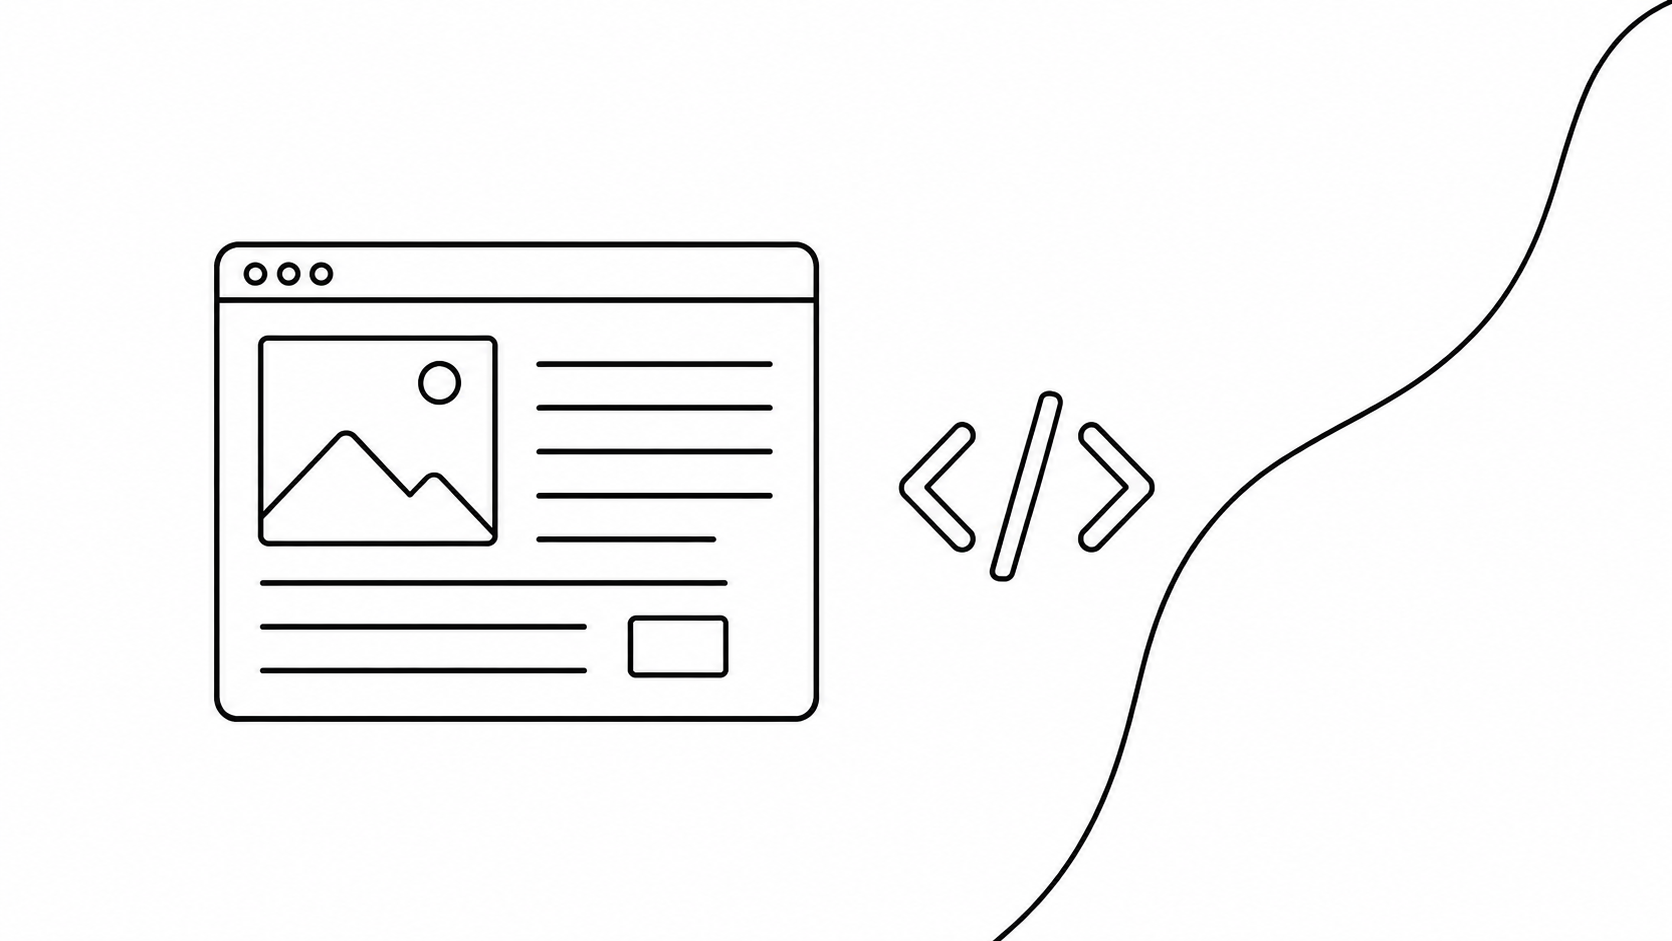
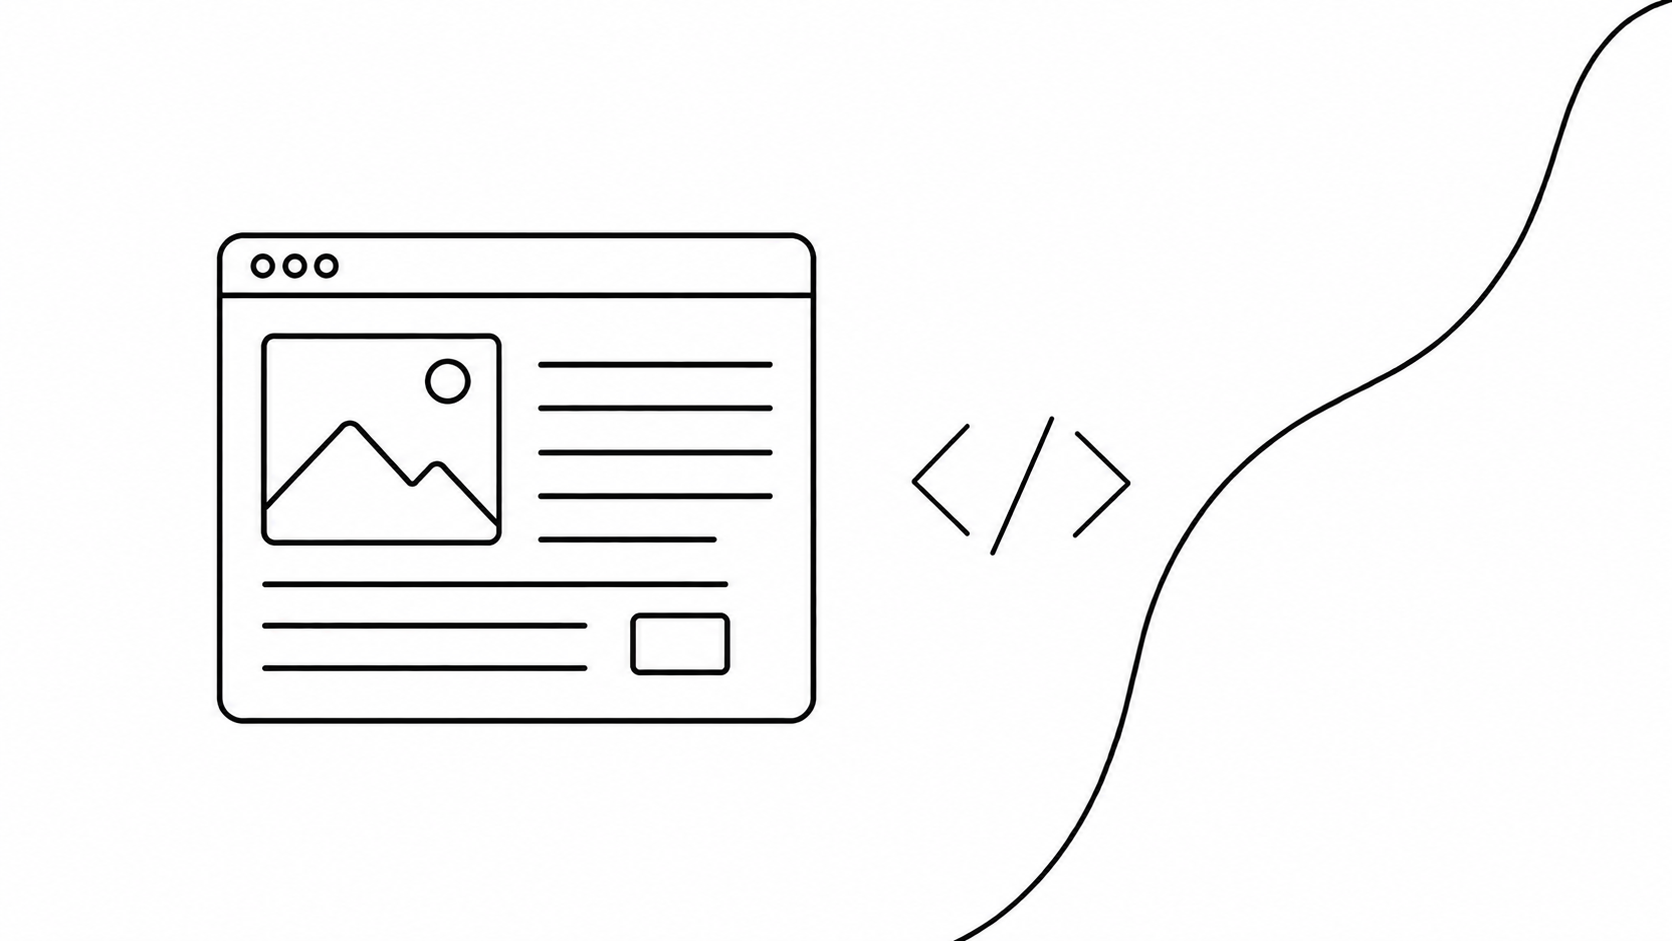
content: nnv 본문 신저작문법 적용·에셋 갱신 + about 오타 수정
- nnv-2: 나란히 배치·크기 힌트 문법 적용, broken_UI.png 추가, 이미지를 헤딩 아래로 재배치, 기준 목록 blockquote화
- nnv-1: PHILOSOPHY 태그 추가
- 시리즈 썸네일 라인 아트·design 에셋 갱신, about SIGNAL 오타 수정

diff --git a/src/ui/layouts/about/experience.data.ts b/src/ui/layouts/about/experience.data.ts
@@ -34,7 +34,7 @@ export const EXPERIENCE_YEARS: ExperienceYear[] = [
     year: "2026",
     items: [
       {
-        title: "숭실대학교 축제 서비스 SINGAL 기획 고도화 및 개발, 운영",
+        title: "숭실대학교 축제 서비스 SIGNAL 기획 고도화 및 개발, 운영",
         mention: [{ text: "@Ren" }, { text: "@Emily" }, { text: "@Max" }, { text: "@Dean" }],
         bullets: [
           "축제 기간동안 서로의 프로필을 구경하고 마음에 드는 연락처를 얻을 수 있는 소개팅 서비스",

diff --git a/src/content/blog/posts/neural-network-visualization-1/index.md b/src/content/blog/posts/neural-network-visualization-1/index.md
@@ -5,6 +5,7 @@ date: 2025-10-16T19:34:00
 status: published
 tags:
   - DEV
+  - PHILOSOPHY
   - DESIGN
   - MATH
 topics:
